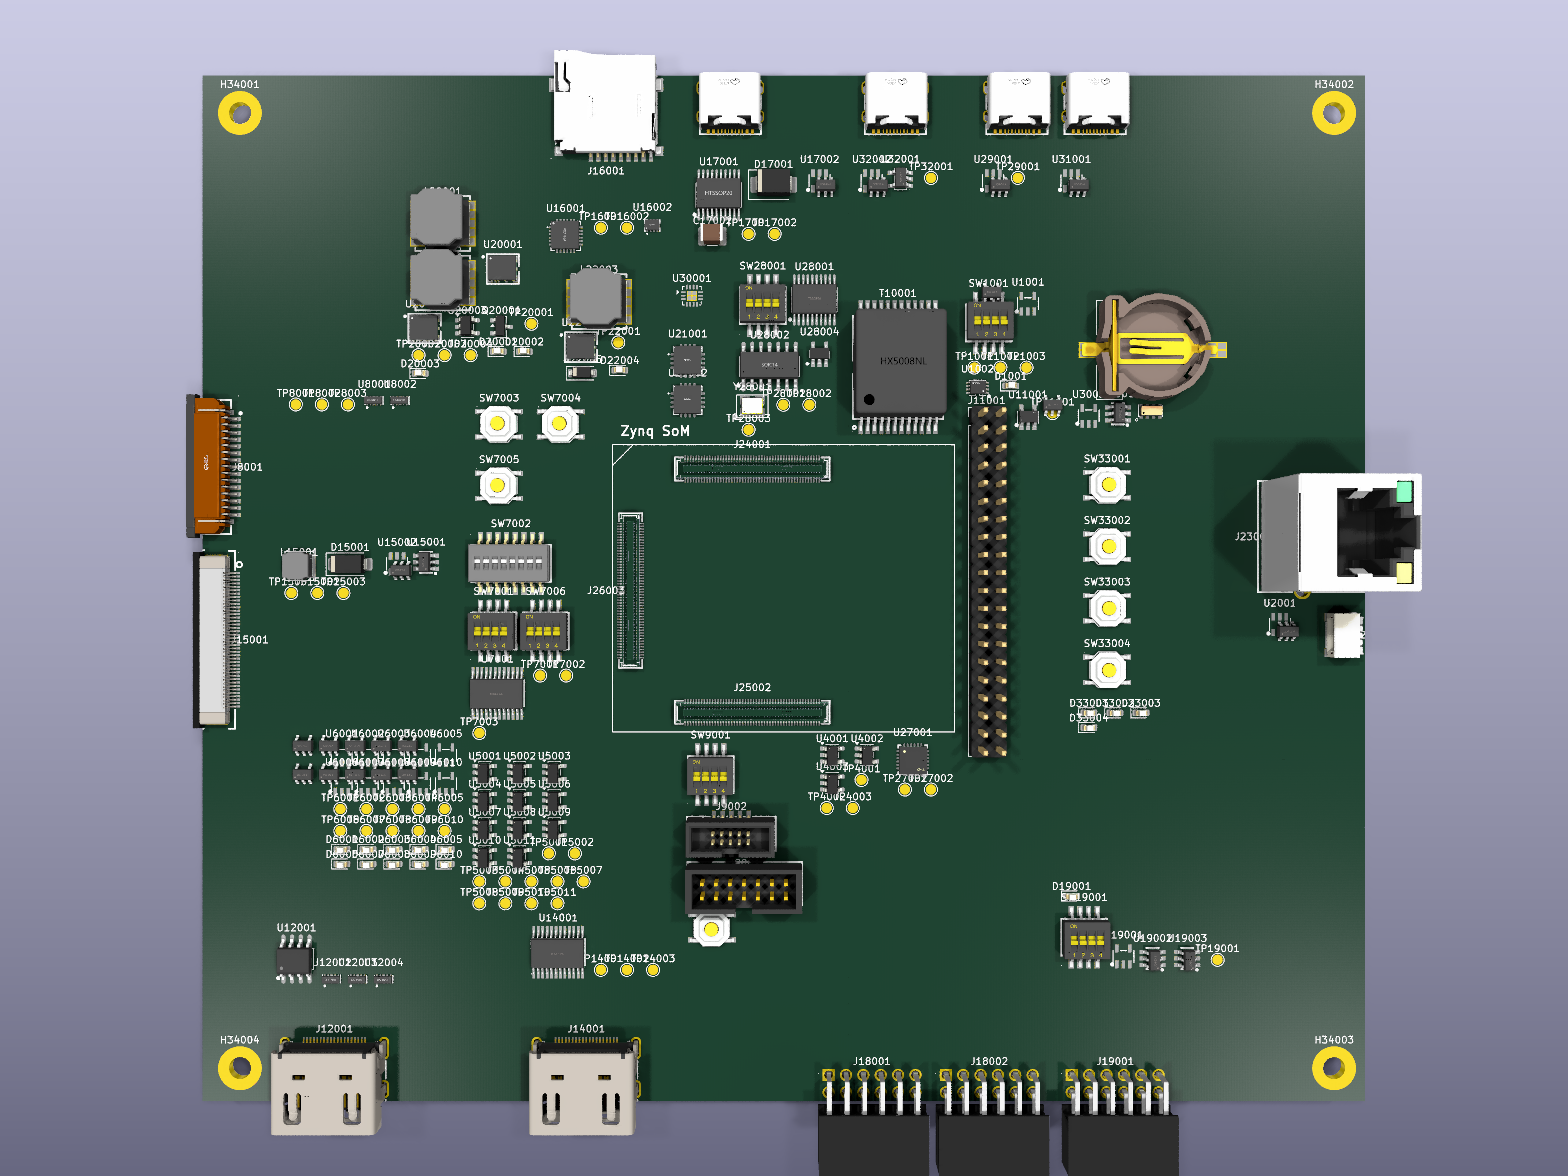
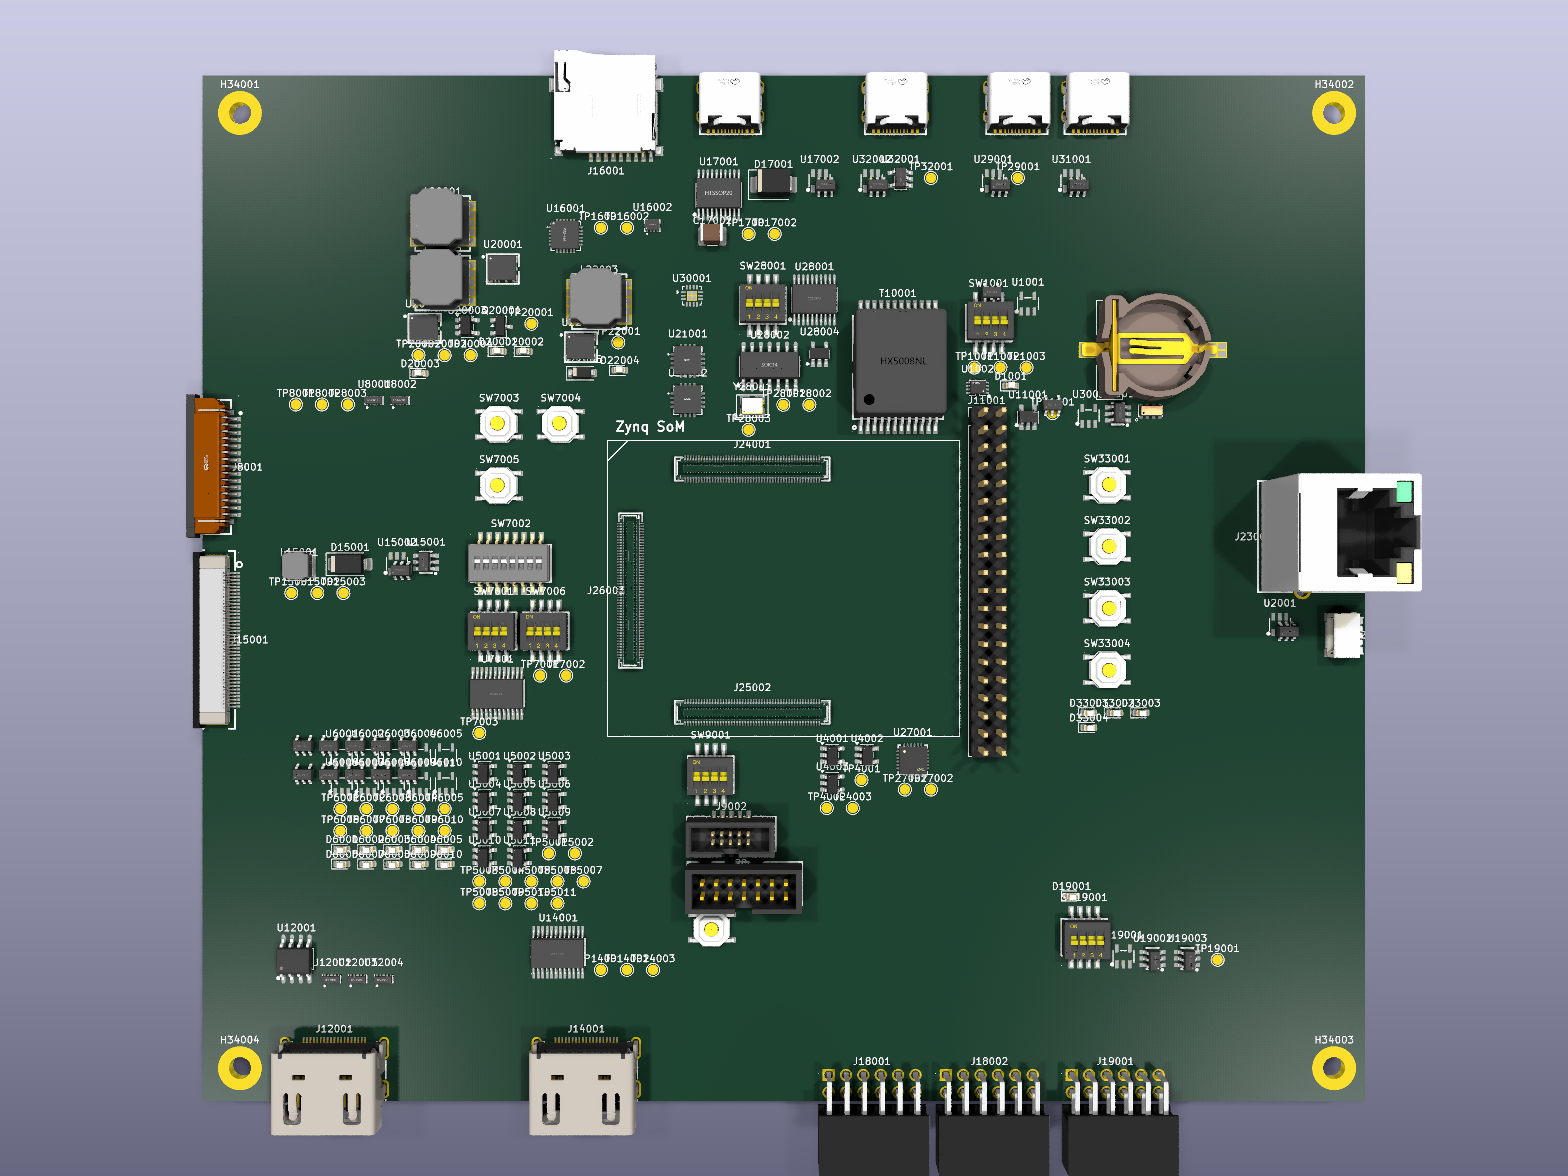
placer: SoM-shadow TOP keepout (no carrier top passives) + outline +3% clearance
Two user-directed LAW-6 refinements:

1. Carrier TOP under the SoM is now a HARD KEEPOUT (only the DF40 receptacles).
   The SoM's own bottom-side components sit in the standoff gap, so a carrier
   top-side part there — even a passive — collides with the module and stops it
   mating. placement_mech now fails any TOP-side passive whose courtyard overlaps
   the SoM core (new top_under_som list; non-passives/controls still flagged as
   before, top or bottom). The som_decoupling array stays BOTTOM-only (opposite
   face — allowed). New mutant test test_mutant_top_passive_under_som_fails proves
   the kill; the passing model's allowed passive moved top->bottom.

2. SoM silk outline + keepout grown SOM_CORE_CLEARANCE = 3% (1.5%/side, centred)
   past the bare DF40 span, so the outline reserves a mating-clearance margin
   around the module (som_core 50x42 -> 51.6x43.2). Drives both the F.SilkS
   outline and the placement_mech keepout.

docs/LAWS.md LAW 6 module-keepout bullet updated: carrier TOP under a module is a
keepout for everything but the receptacles (module's own components in the gap);
carrier BOTTOM may carry low-profile passives; outline drawn a few % larger.

Render verified: SoM core top shows only the 3 DF40s inside a 3%-larger outline,
no top passives. DRC 0, all LAW-6 gates PASS (0 TOP-under-SoM), 627 tests pass.

diff --git a/schgen/verify/placement_mech.py b/schgen/verify/placement_mech.py
@@ -88,6 +88,7 @@ class MechResult:
     bad_connectors: list[str] = field(default_factory=list)
     under_som: list[str] = field(default_factory=list)
     controls_under_som: list[str] = field(default_factory=list)
+    top_under_som: list[str] = field(default_factory=list)
     som_core: tuple | None = None
 
     def summary(self) -> str:
@@ -96,7 +97,7 @@ class MechResult:
         sc = self.som_core
         if sc:
             L.append(f"  SoM module-body core: ({sc[0]:.1f},{sc[1]:.1f}).."
-                     f"({sc[2]:.1f},{sc[3]:.1f}) mm — passives-only")
+                     f"({sc[2]:.1f},{sc[3]:.1f}) mm — bottom-passives-only, TOP keepout")
         L.append(f"  off-board connectors: {self.n_connectors} "
                  f"({len(self.bad_connectors)} mis-placed)")
         for ref, mpn, edge, rot, face_dir, flush, ok in self.connectors:
@@ -111,6 +112,10 @@ class MechResult:
         L.append(f"  controls under SoM core: {len(self.controls_under_som)}")
         for c in self.controls_under_som:
             L.append(f"    CONTROL-UNDER-SoM {c}")
+        L.append(f"  carrier TOP parts under SoM core (keepout): "
+                 f"{len(self.top_under_som)}")
+        for t in self.top_under_som:
+            L.append(f"    TOP-UNDER-SoM {t}")
         return "\n".join(L)
 
 
@@ -171,7 +176,17 @@ def check(model: PcbModel) -> MechResult:
                 #                   interface — they MUST sit under the module
                 #                   body (the SoM plugs onto them). Not a defect.
             if _is_passive_under_som(inst.ref):
-                continue          # GOOD: a low-profile passive uses dead space
+                # A low-profile passive may sit under the SoM — but only on the
+                # BOTTOM (opposite face). LAW 6: the carrier TOP under the module
+                # is a keepout — the SoM's own bottom-side components occupy the
+                # standoff gap, so a carrier top-side passive there collides with
+                # the module and stops it mating.
+                if inst.side == "top":
+                    res.top_under_som.append(
+                        f"{inst.ref} ({inst.sheet}) {inst.value} [TOP]: courtyard "
+                        f"({ct[0]:.1f},{ct[1]:.1f})..({ct[2]:.1f},{ct[3]:.1f}) "
+                        f"overlaps SoM core — carrier TOP is keepout under the module")
+                continue          # bottom passive = GOOD (uses dead space)
             row = (f"{inst.ref} ({inst.sheet}) {inst.value}: courtyard "
                    f"({ct[0]:.1f},{ct[1]:.1f})..({ct[2]:.1f},{ct[3]:.1f}) "
                    f"overlaps SoM core by {ov:.1f} mm^2")
@@ -180,5 +195,5 @@ def check(model: PcbModel) -> MechResult:
                 res.controls_under_som.append(row)
 
     res.ok = (not res.bad_connectors and not res.under_som
-              and not res.controls_under_som)
+              and not res.controls_under_som and not res.top_under_som)
     return res

diff --git a/schgen/tests/test_placement_mech.py b/schgen/tests/test_placement_mech.py
@@ -63,16 +63,17 @@ def _passing_model():
     sb = pcb._rot_bbox(pcb._footprint_bbox(
         pcb.resolve_mod("TF-01A:TF-01A")), r_sd)
     j_sd = _inst("J2", "TF-01A", bx0 + 60, by1 - sb[3] - 0.1, r_sd)
-    # a passive UNDER the SoM core (allowed) + the SoM core rectangle.
+    # a BOTTOM-side passive UNDER the SoM core (allowed — opposite face from the
+    # SoM) + the SoM core rectangle. A TOP-side part here is forbidden (the SoM's
+    # own bottom components sit in the standoff gap — see the top-keepout mutant).
     som_core = (bx0 + 40, by0 + 30, bx0 + 60, by0 + 50)
-    # use a real resistor footprint for the passive
     rmod = pcb.resolve_mod("Resistor_SMD:R_0603_1608Metric")
     r_under = FootprintInst(ref="R5", value="10k",
                             footprint="Resistor_SMD:R_0603_1608Metric",
                             x=(som_core[0] + som_core[2]) / 2,
                             y=(som_core[1] + som_core[3]) / 2,
                             rotation=0.0, pad_nets={}, mod_path=rmod,
-                            sheet="t", side="top")
+                            sheet="t", side="bottom")
     insts = [j_usbc, j_sd, r_under]
     return PcbModel(board_w=W, board_h=H, insts=insts, net_numbers={"": 0},
                     netclass_of={}, classes={}, placed=len(insts), deferred=[],
@@ -109,6 +110,19 @@ def test_mutant_connector_inward_facing_fails():
     assert not res.ok, "inward-facing edge connector must FAIL the gate"
     assert any("J1" in b and "inward" in b for b in res.bad_connectors), \
         res.summary()
+
+
+def test_mutant_top_passive_under_som_fails():
+    """A carrier TOP-side passive under the SoM body collides with the SoM's own
+    bottom-side components in the standoff gap and stops it mating. The gate MUST
+    fail it as TOP-under-SoM — even though the SAME passive on the BOTTOM is fine."""
+    model = _passing_model()
+    r = next(i for i in model.insts if i.ref == "R5")
+    assert pm.check(model).ok, "baseline (bottom passive) must pass"
+    r.side = "top"                       # flip the allowed bottom passive to top
+    res = pm.check(model)
+    assert not res.ok, "a TOP-side passive under the SoM must FAIL the gate"
+    assert any("R5" in t for t in res.top_under_som), res.summary()
 
 
 def test_mutant_ic_under_som_fails():

diff --git a/schgen/generate/pcb.py b/schgen/generate/pcb.py
@@ -102,6 +102,8 @@ GRID = 1.27             # placement snap grid (mm)
 PERIM = 3.0              # perimeter keepout ring (no zone touches the edge)
 MH_KEEPOUT = 5.0         # extra inset reserving the corner mounting-hole pads
 SOM_HALO_PCB = 6.0       # routing/escape halo reserved around the SoM body
+SOM_CORE_CLEARANCE = 0.03  # grow the SoM-body silk outline + keepout 3% (1.5% per
+#                            side) past the bare DF40 span for mating clearance
 EDGE_BAND_PCB = 10.0     # nominal connector band each side (board-aspect seed)
 ZONE_FILL = 0.58         # zone-area packing efficiency for the seed board size
 ZONE_STEP = 2.54         # zone-placement raster scan step (mm)
@@ -1364,10 +1366,17 @@ def build_model(two_side: bool = True) -> PcbModel:
 
     kx0, ky0, kx1, ky1 = keepout
     # SoM module-body CORE (board page frame, NO halo) — the rectangle the
-    # plugged-in SoM physically covers. The placement_mech gate forbids any
-    # non-passive/test-point/tall part inside it (LAW 6).
-    som_core = (ORIGIN_X + plan.som_x, ORIGIN_Y + plan.som_y,
-                ORIGIN_X + plan.som_x + som.w, ORIGIN_Y + plan.som_y + som.h)
+    # plugged-in SoM physically covers. Grown SOM_CORE_CLEARANCE (3%, 1.5% each
+    # side, centred) beyond the bare DF40 body span so the silk outline + the
+    # keepout reserve a mating-clearance margin around the module (user request).
+    # The placement_mech gate forbids any non-passive/test-point/tall part inside
+    # it AND any carrier TOP-side part (the SoM's own bottom components occupy the
+    # standoff gap) — LAW 6.
+    _ccx = som.w * SOM_CORE_CLEARANCE / 2
+    _ccy = som.h * SOM_CORE_CLEARANCE / 2
+    som_core = (ORIGIN_X + plan.som_x - _ccx, ORIGIN_Y + plan.som_y - _ccy,
+                ORIGIN_X + plan.som_x + som.w + _ccx,
+                ORIGIN_Y + plan.som_y + som.h + _ccy)
     return PcbModel(
         board_w=board_w, board_h=board_h, insts=insts,
         net_numbers=net_numbers, netclass_of=netclass_of, classes=classes,

diff --git a/schgen/__main__.py b/schgen/__main__.py
@@ -1020,12 +1020,15 @@ def cmd_board(args: argparse.Namespace) -> int:
                   f"({mg.n_connectors} off-board connectors, "
                   f"{len(mg.bad_connectors)} mis-placed; "
                   f"{len(mg.under_som)} non-passive under SoM; "
-                  f"{len(mg.controls_under_som)} controls under SoM "
+                  f"{len(mg.controls_under_som)} controls under SoM; "
+                  f"{len(mg.top_under_som)} TOP-side under SoM "
                   f"-> {rep_dir / 'placement_mech.txt'})")
             for _b in mg.bad_connectors:
                 print(f"  PLACEMENT CONNECTOR: {_b}")
             for _u in mg.under_som:
                 print(f"  PLACEMENT UNDER-SoM: {_u}")
+            for _t in mg.top_under_som:
+                print(f"  PLACEMENT TOP-UNDER-SoM: {_t}")
             ok_all = ok_all and mg.ok
         else:
             print("PLACEMENT (LAW 6): FAIL — gate did not run")

diff --git a/docs/LAWS.md b/docs/LAWS.md
@@ -117,13 +117,17 @@ layout engineer:
   packer reserves this gap beside any wide-overmold cable connector — adjacency
   with the default tight clearance is WRONG for these parts.
 
-- **A module / mezzanine / display footprint is a KEEPOUT STENCIL.** The area a
-  plugged-in module overhangs (the SoM on its DF40s; a display over its FFC; any
-  board-to-board mezzanine) is reserved: ONLY low-profile passives shorter than
-  the module's standoff may sit beneath it. NO connector, IC, button, switch,
-  tall part, or test point under a module body -- the module physically covers
-  them. Passives there are GOOD (they use otherwise-dead space); anything else is
-  wrong.
+- **A module / mezzanine / display footprint is a KEEPOUT STENCIL — and the
+  carrier TOP under it is a HARDER keepout than the bottom.** The area a plugged-in
+  module overhangs (the SoM on its DF40s; a display over its FFC; any board-to-board
+  mezzanine) is reserved. NO connector, IC, button, switch, tall part, or test point
+  under the module body, top OR bottom. The carrier BOTTOM under the module MAY carry
+  low-profile passives (opposite face — they use otherwise-dead space; GOOD). The
+  carrier TOP under the module is a keepout for EVERYTHING except the mezzanine
+  receptacles themselves: the module's OWN bottom-side components sit in the standoff
+  gap, so a carrier top-side part there — even a passive — collides with the module
+  and stops it mating. The keepout/outline is drawn a few % LARGER than the bare
+  connector span to reserve a mating-clearance margin around the module.
 
 - **Controls and serviceable parts must be reachable.** A button / switch must be
   pressable (top side, accessible, grouped with its peers); a coin cell / fuse
